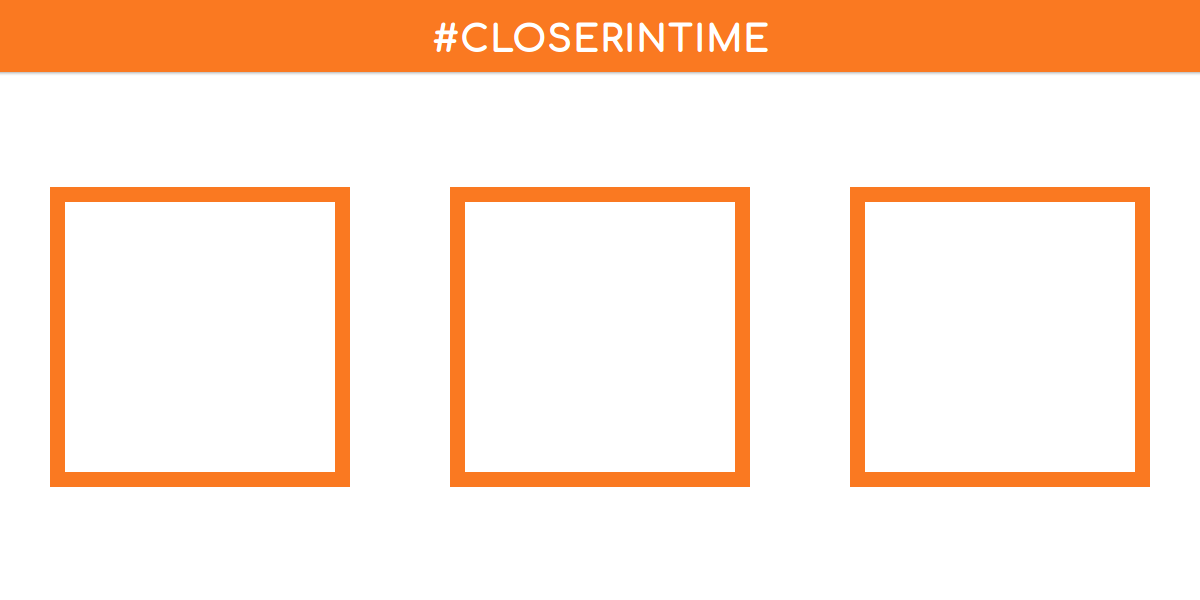
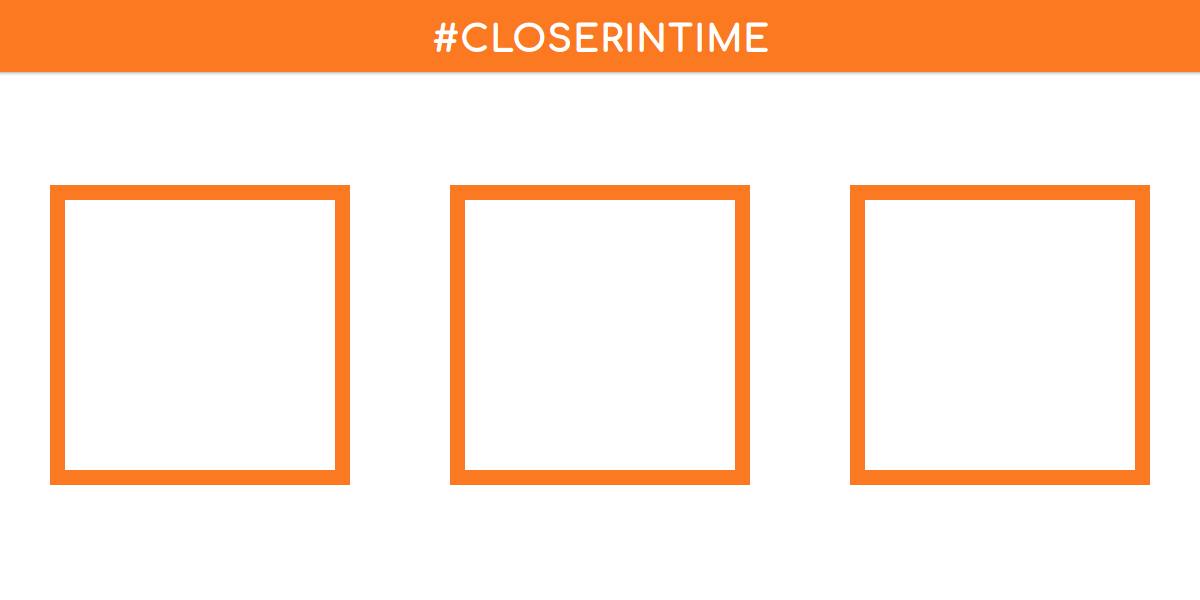
generate for 1 point too

diff --git a/thumb/index.php b/thumb/index.php
@@ -15,9 +15,9 @@ if($a && $b && $c && ($src1 = new Imagick("$a.png")) && ($src2 = new Imagick("$b
 	$src2->resizeImage(270, 270, Imagick::FILTER_LANCZOS, 1);
 	$src3->resizeImage(270, 270, Imagick::FILTER_LANCZOS, 1);
 	
-	$im->compositeImage($src1, Imagick::COMPOSITE_DEFAULT, 65, 202);
-	$im->compositeImage($src2, Imagick::COMPOSITE_DEFAULT, 465, 202);
-	$im->compositeImage($src3, Imagick::COMPOSITE_DEFAULT, 865, 202);
+	$im->compositeImage($src1, Imagick::COMPOSITE_DEFAULT, 65, 200);
+	$im->compositeImage($src2, Imagick::COMPOSITE_DEFAULT, 465, 200);
+	$im->compositeImage($src3, Imagick::COMPOSITE_DEFAULT, 865, 200);
 	
 	/* Output the image */
 	$im->setImageFormat("png");
@@ -44,7 +44,23 @@ if($a && $b && $c && ($src1 = new Imagick("$a.png")) && ($src2 = new Imagick("$b
 	header("Content-Type: image/png");
 	echo $im;
 
-} else {
+} else if($a && ($src1 = new Imagick("$a.png")) ){
+	$im = new Imagick('sharing-img-template-1.png');
+	/* Append the images into one */
+	//$im->resetIterator();
+	//$combined = $im->appendImages(false);
+	
+	$src1->resizeImage(370, 370, Imagick::FILTER_LANCZOS, 1);
+	
+	$im->compositeImage($src1, Imagick::COMPOSITE_DEFAULT, 415, 150);
+	
+	/* Output the image */
+	$im->setImageFormat("png");
+	$im->writeImage ($a.'_.png');
+	header("Content-Type: image/png");
+	echo $im;
+	
+} else{
 	die('Error');
 }
 ?>
